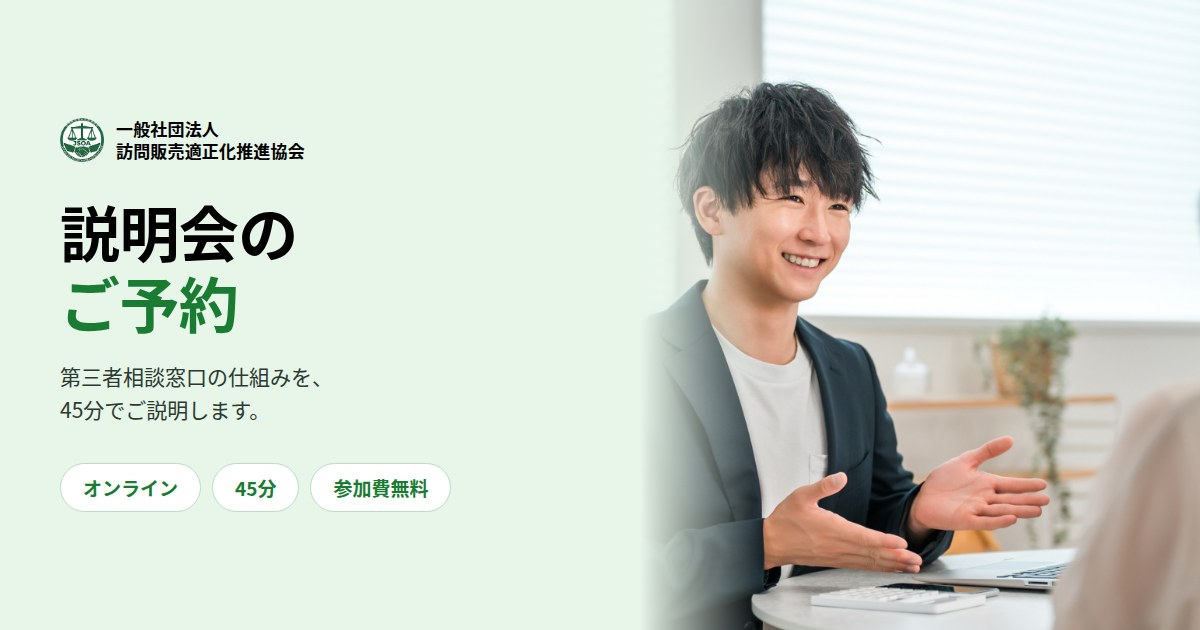
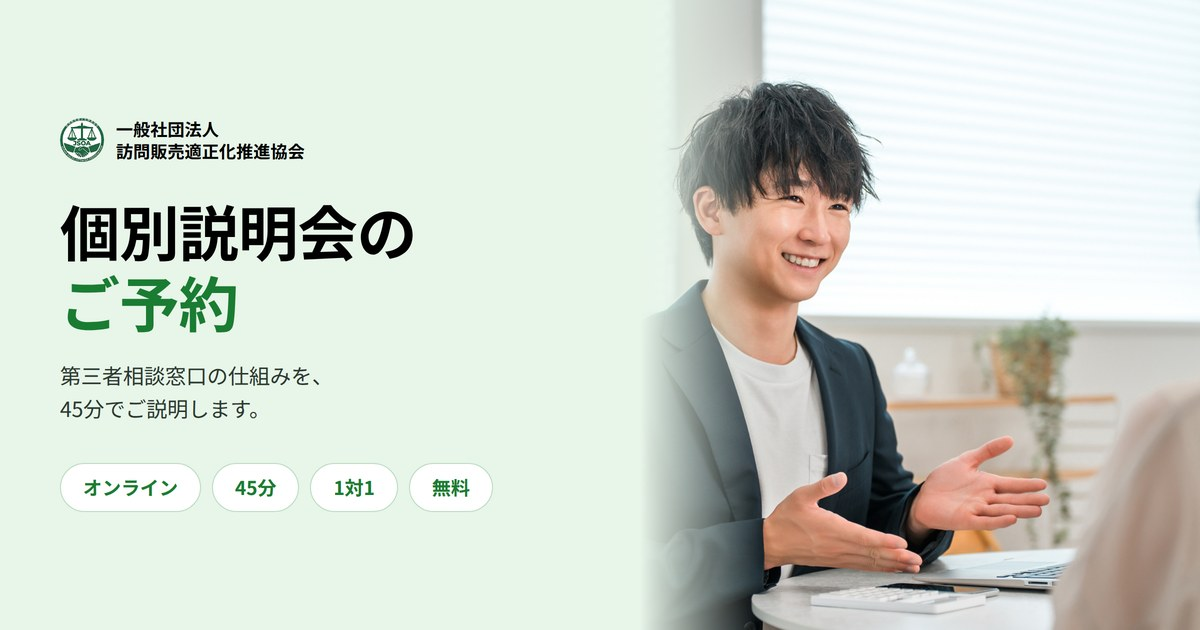
Change the briefing from a seminar to a one-on-one session
The session is one company at a time, not several per slot, so the seminar
framing was wrong: rename it 個別説明会, state the one-on-one format in the
meta tiles and the bullet list, drop the 開催中の回 wording that implied
shared slots, and re-render the main image with a 1対1 chip.

Claude-Session: https://claude.ai/code/session_01VY4H4nKyvLUSKi8jDhUzRq

diff --git a/reserve/index.html b/reserve/index.html
@@ -3,11 +3,11 @@
 <head>
 <meta charset="UTF-8">
 <meta name="viewport" content="width=device-width, initial-scale=1">
-<title>説明会のご予約｜一般社団法人訪問販売適正化推進協会（JSOA）</title>
-<meta name="description" content="JSOA（一般社団法人訪問販売適正化推進協会）の説明会をご予約いただけます。ご希望の日時をカレンダーからお選びください。">
+<title>個別説明会のご予約｜一般社団法人訪問販売適正化推進協会（JSOA）</title>
+<meta name="description" content="JSOA（一般社団法人訪問販売適正化推進協会）のオンライン個別説明会（45分・無料）をご予約いただけます。ご希望の日時をカレンダーからお選びください。">
 <meta name="robots" content="noindex">
 <meta property="og:type" content="website">
-<meta property="og:title" content="説明会のご予約｜一般社団法人訪問販売適正化推進協会（JSOA）">
+<meta property="og:title" content="個別説明会のご予約｜一般社団法人訪問販売適正化推進協会（JSOA）">
 <meta property="og:description" content="第三者相談窓口の仕組みと導入方法をご説明します。ご希望の日時をカレンダーからお選びください。">
 <meta property="og:image" content="../assets/images/reserve-main.jpg">
 <link rel="icon" href="../assets/images/LOGO.png">
@@ -69,18 +69,18 @@
   <!-- ============ ページ見出し ============ -->
   <section class="rhead">
     <div class="rwrap">
-      <p class="rhead__eyebrow">JSOA 説明会</p>
-      <h1 class="rhead__title">説明会のご予約</h1>
-      <p class="rhead__lead">第三者相談窓口の仕組みと、導入の進め方をご説明します。<br>
+      <p class="rhead__eyebrow">JSOA 個別説明会</p>
+      <h1 class="rhead__title">個別説明会のご予約</h1>
+      <p class="rhead__lead">第三者相談窓口の仕組みと、導入の進め方を1対1でご説明します。<br>
         ご希望の日時をカレンダーからお選びください。</p>
     </div>
   </section>
 
-  <!-- ============ 説明会について ============ -->
-  <!-- 所要時間45分・オンライン・参加費無料（STORES予約側の枠の長さと揃えること） -->
+  <!-- ============ 個別説明会について ============ -->
+  <!-- 所要時間45分・オンライン・1対1・無料（STORES予約側の枠の長さと定員1名の設定に揃えること） -->
   <section class="rsec">
     <div class="rwrap">
-      <h2 class="rsec__title">説明会について</h2>
+      <h2 class="rsec__title">個別説明会について</h2>
       <ul class="rmeta">
         <li class="rmeta__item">
           <span class="rmeta__icon"><svg><use href="#i-clock"/></svg></span>
@@ -89,16 +89,17 @@
         </li>
         <li class="rmeta__item">
           <span class="rmeta__icon"><svg><use href="#i-headset"/></svg></span>
-          <span class="rmeta__label">開催形式</span>
-          <span class="rmeta__value">オンライン</span>
+          <span class="rmeta__label">実施形式</span>
+          <span class="rmeta__value">オンライン1対1</span>
         </li>
         <li class="rmeta__item">
           <span class="rmeta__icon"><svg><use href="#i-yen"/></svg></span>
-          <span class="rmeta__label">参加費</span>
+          <span class="rmeta__label">費用</span>
           <span class="rmeta__value">無料</span>
         </li>
       </ul>
       <ul class="rlist">
+        <li><span class="rlist__icon"><svg><use href="#i-check"/></svg></span>1社ごとの個別形式です。他社さまと同席することはありません</li>
         <li><span class="rlist__icon"><svg><use href="#i-check"/></svg></span>第三者相談窓口の仕組みと、企業側のメリットをご説明します</li>
         <li><span class="rlist__icon"><svg><use href="#i-check"/></svg></span>加入までの流れ・費用・運用イメージをご案内します</li>
         <li><span class="rlist__icon"><svg><use href="#i-check"/></svg></span>その場でご契約いただく必要はありません。ご質問だけでも歓迎です</li>
@@ -134,13 +135,13 @@
   <section class="rsec" id="calendar">
     <div class="rwrap">
       <h2 class="rsec__title">日時を選ぶ</h2>
-      <p class="rsec__note">空席状況の確認とお申し込みは、予約カレンダーから行っていただけます。</p>
+      <p class="rsec__note">空き状況の確認とお申し込みは、予約カレンダーから行っていただけます。</p>
 
       <!-- ==========================================================
            STORES 予約への導線
 
            遷移先は下の href 1か所だけ。末尾の数字は STORES 予約の
-           メニューID（JSOA説明会）で、この「メニュー個別URL」に飛ばすと
+           メニューID（JSOA個別説明会）で、この「メニュー個別URL」に飛ばすと
            予約タブに直接着地します。/reserve/jsoa だけだと詳細タブに
            着地してクリックが1回増えるので、メニューIDまで付けています。
            STORES 側でメニューを作り直したらIDが変わるので、そのときは
@@ -158,13 +159,13 @@
            ========================================================== -->
       <div class="bookform" id="book-embed">
         <div class="bookform__link">
-          <p class="bookform__linkTitle">開催中の回から日時をお選びください</p>
+          <p class="bookform__linkTitle">ご都合のよい日時をお選びください</p>
           <p class="bookform__linkText">日時の選択と、会社名・ご担当者名などのご入力は、<br>
             予約システムのページで続けて行っていただけます。</p>
           <a class="btn btn--primary btn--lg bookform__btn"
              href="https://jsoa.stores.jp/reserve/jsoa/1977464"
              target="_blank" rel="noopener">
-            <span>説明会を予約する</span>
+            <span>個別説明会を予約する</span>
             <svg class="btn__arrow" aria-hidden="true"><use href="#i-external"/></svg>
           </a>
           <p class="bookform__linkNote">別のタブで STORES 予約が開きます</p>
@@ -199,7 +200,7 @@
           <li><a href="../index.html#service">サービス</a></li>
           <li><a href="../index.html#about">第三者相談窓口について</a></li>
           <li><a href="../index.html#faq">FAQ</a></li>
-          <li><a href="#calendar">説明会のご予約</a></li>
+          <li><a href="#calendar">個別説明会のご予約</a></li>
         </ul>
       </nav>
     </div>

diff --git a/index.html b/index.html
@@ -18,7 +18,7 @@
   /* ============================================================
      CTA（資料請求・お問い合わせ）の遷移先
      ページ内すべての CTA ボタンとナビの「お問い合わせ」が一括で切り替わります。
-     いまは同梱の説明会予約ページに向けています。
+     いまは同梱の個別説明会予約ページに向けています。
      外部URL（Jicooの予約ページ直リンク等）に変えたい場合もこの1行だけ。
      例: window.JSOA_CTA_URL = 'https://example.jicoo.com/xxxx';
      ============================================================ */

diff --git a/design/banner/reserve-main.html b/design/banner/reserve-main.html
@@ -25,10 +25,10 @@
       <img src="../../assets/images/LOGO.png" alt="">
       <span>一般社団法人<br>訪問販売適正化推進協会</span>
     </div>
-    <h1>説明会の<br><em>ご予約</em></h1>
+    <h1>個別説明会の<br><em>ご予約</em></h1>
     <p>第三者相談窓口の仕組みを、<br>45分でご説明します。</p>
     <ul class="chips">
-      <li>オンライン</li><li>45分</li><li>参加費無料</li>
+      <li>オンライン</li><li>45分</li><li>1対1</li><li>無料</li>
     </ul>
   </div>
   <div class="r"><img src="../../assets/images/hero-main.jpg" alt=""></div>
